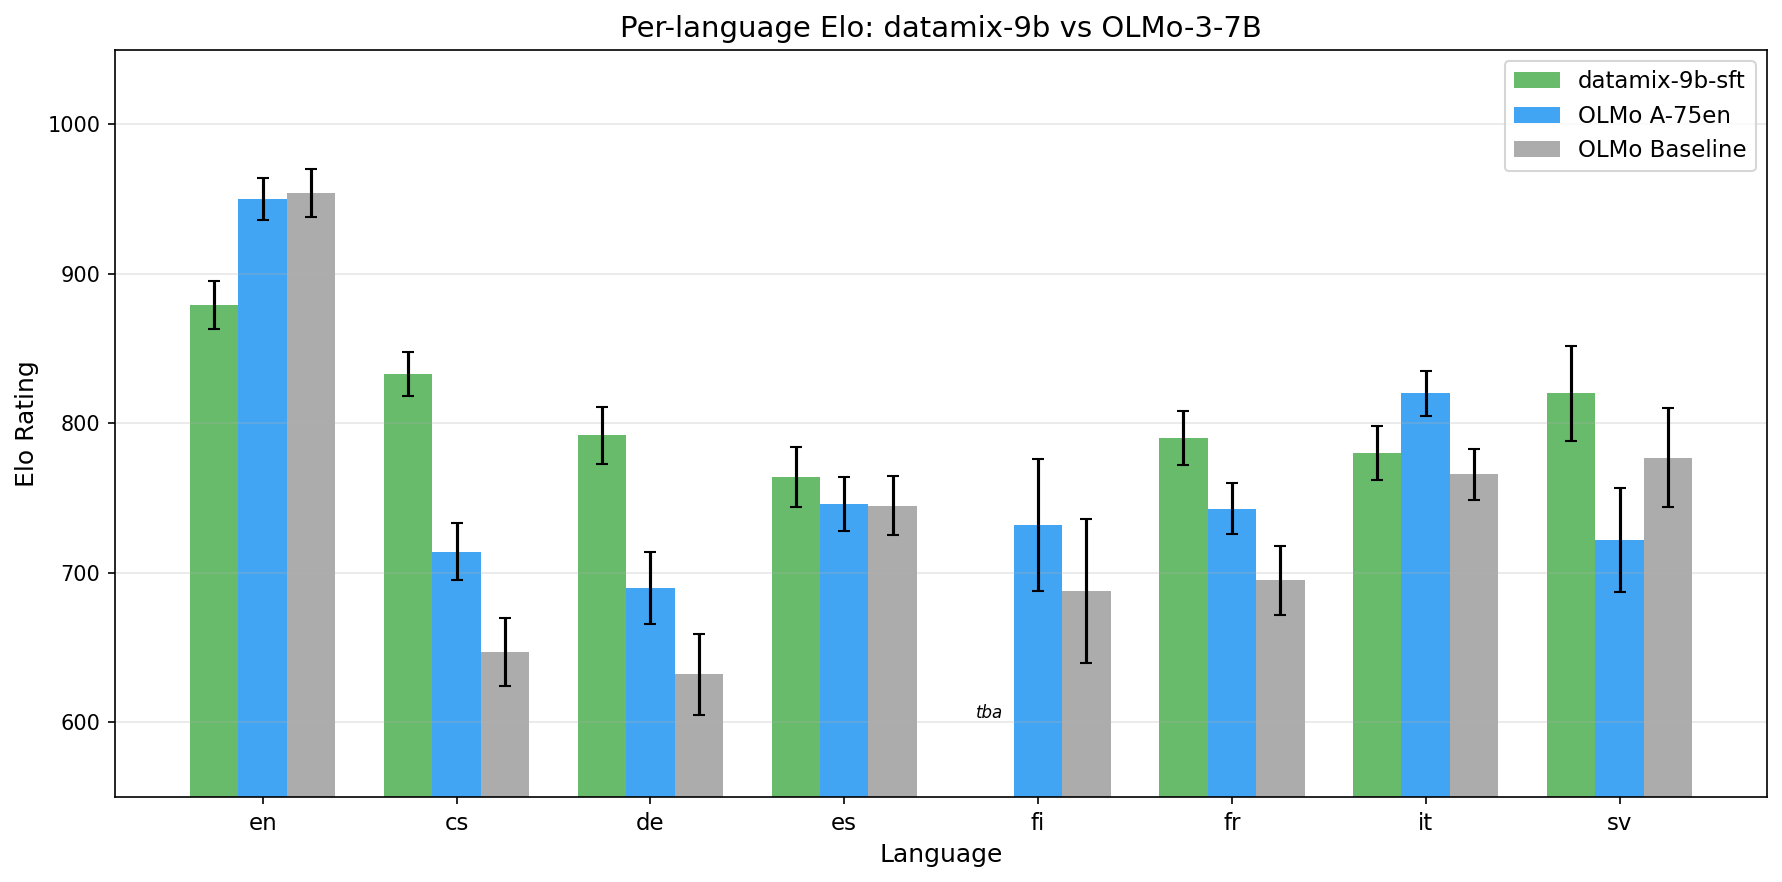
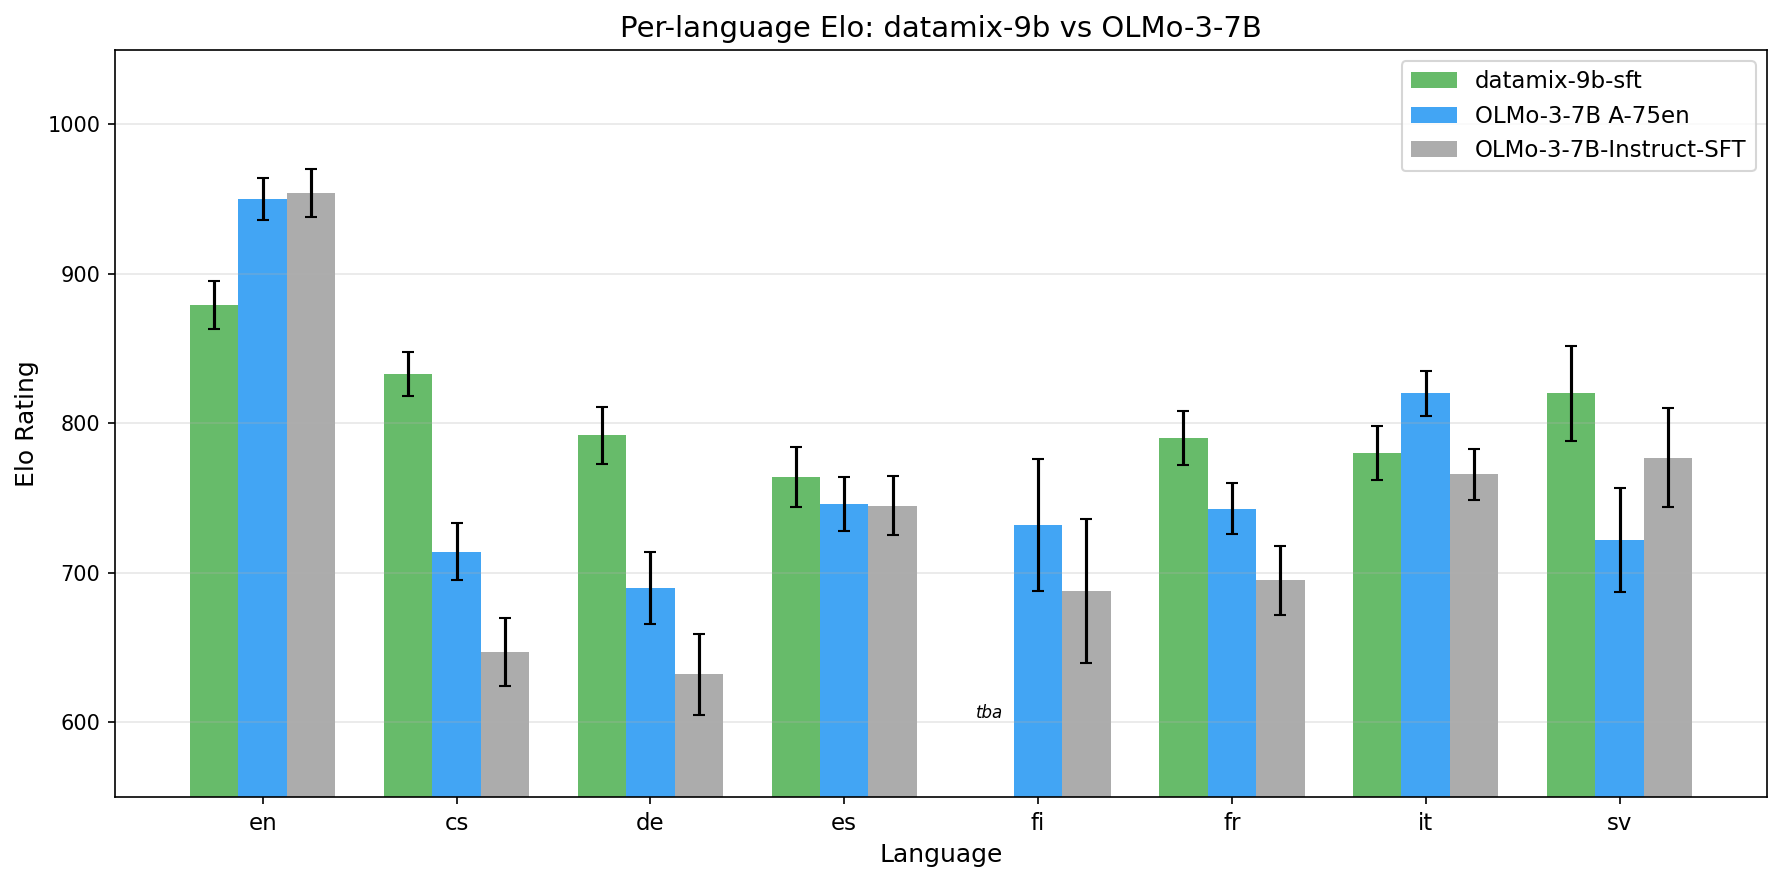
Fix baseline name to OLMo-3-7B-Instruct-SFT in tables and plots

Changed region(s): [[0.7716, 0.0612, 0.9877, 0.1837]]

diff --git a/oellm/experiments/multilingual_eu/results/plots/plot_elo_bars.py b/oellm/experiments/multilingual_eu/results/plots/plot_elo_bars.py
@@ -20,7 +20,7 @@ def plot_dolci_translated():
             "elo": [913, 745, 701, 763, 813, 756, 801, 756],
             "ci": [16, 15, 23, 18, 33, 17, 15, 33],
         },
-        "Baseline": {
+        "OLMo-3-7B-Instruct-SFT": {
             "elo": [954, 647, 632, 745, 688, 695, 766, 777],
             "ci": [16, 23, 27, 20, 48, 23, 17, 33],
         },
@@ -56,7 +56,7 @@ def plot_dolci_translated():
 
 
 def plot_datamix_9b():
-    """Bar plot for datamix-9b vs OLMo A-75en vs OLMo baseline."""
+    """Bar plot for datamix-9b vs OLMo-3-7B A-75en vs OLMo baseline."""
     langs = ["en", "cs", "de", "es", "fi", "fr", "it", "sv"]
 
     data = {
@@ -64,11 +64,11 @@ def plot_datamix_9b():
             "elo": [879, 833, 792, 764, None, 790, 780, 820],
             "ci": [16, 15, 19, 20, None, 18, 18, 32],
         },
-        "OLMo A-75en": {
+        "OLMo-3-7B A-75en": {
             "elo": [950, 714, 690, 746, 732, 743, 820, 722],
             "ci": [14, 19, 24, 18, 44, 17, 15, 35],
         },
-        "OLMo Baseline": {
+        "OLMo-3-7B-Instruct-SFT": {
             "elo": [954, 647, 632, 745, 688, 695, 766, 777],
             "ci": [16, 23, 27, 20, 48, 23, 17, 33],
         },

diff --git a/oellm/experiments/multilingual_eu/results/datamix_9b_sft_results.md b/oellm/experiments/multilingual_eu/results/datamix_9b_sft_results.md
@@ -24,14 +24,14 @@ The OpenEuroLLM 9B alpha model ([datamix-9b-80-20](https://huggingface.co/openeu
 |-------|-----|-----|-----|-----|-----|-----|-----|-----|
 | **datamix-9b-sft** | 879±16 | **833±15** | **792±19** | **764±20** | tba | **790±18** | 780±18 | **820±32** |
 | **OLMo-3-7B A-75en** | **950±14** | 714±19 | 690±24 | 746±18 | 732±44 | 743±17 | **820±15** | 722±35 |
-| **OLMo-3-7B Baseline** | 954±16 | 647±23 | 632±27 | 745±20 | 688±48 | 695±23 | 766±17 | 777±33 |
+| **OLMo-3-7B-Instruct-SFT** | 954±16 | 647±23 | 632±27 | 745±20 | 688±48 | 695±23 | 766±17 | 777±33 |
 
 ![Per-language Elo comparison](https://github.com/ferreirafabio/open-instruct/blob/main/oellm/experiments/multilingual_eu/results/plots/datamix_9b_per_language_elo.png?raw=true)
 
 ## Key Findings (preliminary, fi pending)
 
-1. **datamix-9b strongly outperforms OLMo on non-English languages**: Czech +119, German +102, Swedish +98, French +47 over OLMo A-75en.
-2. **English is weaker** (879±16 vs OLMo A-75en 950±14), likely due to shorter context (2048 vs 32768) and the base model being an early alpha.
+1. **datamix-9b strongly outperforms OLMo on non-English languages**: Czech +119, German +102, Swedish +98, French +47 over OLMo-3-7B A-75en.
+2. **English is weaker** (879±16 vs OLMo-3-7B A-75en 950±14), likely due to shorter context (2048 vs 32768) and the base model being an early alpha.
 3. **Czech is the standout** (833±15), highest non-English Elo across all models. The 80/20 multilingual pretraining datamix gives a strong multilingual foundation.
 4. **Swedish transfers well** (820±32) despite the base model's 80/20 datamix focusing on higher-resource languages.
 
